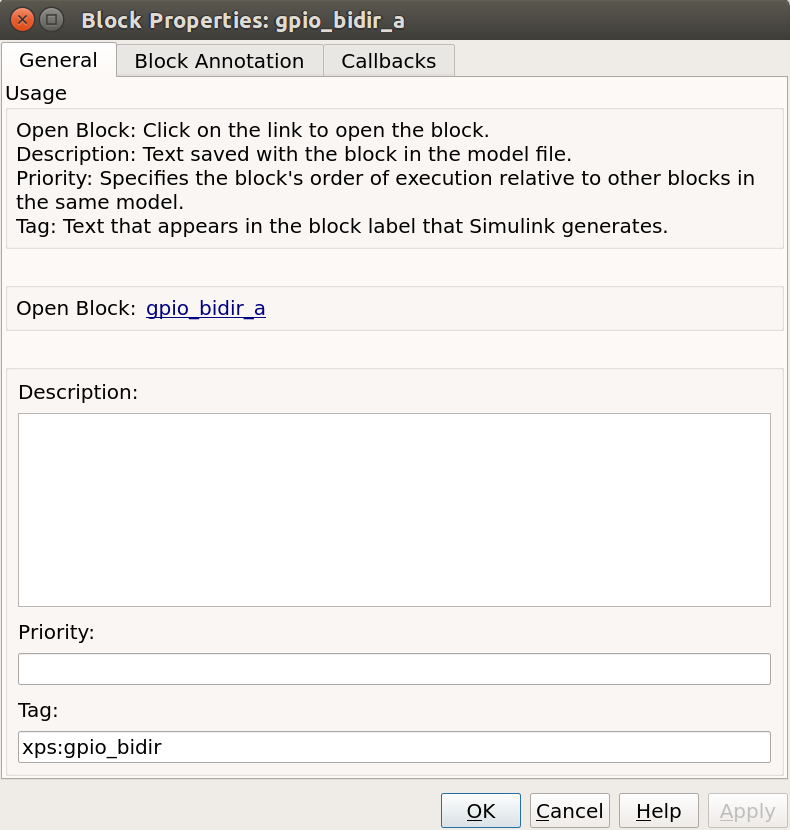
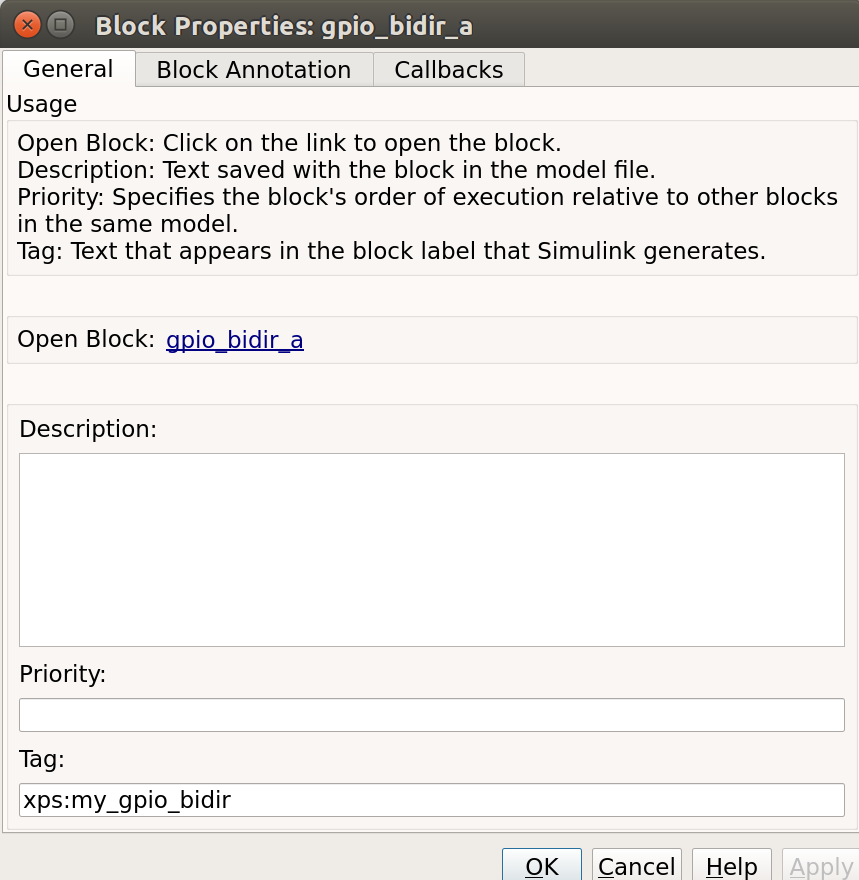
Updated yellow block tutorial based on user feedback. Fixed build failure because of sphinx-markdown-tables version issue. Added casperfpga ccommands to code blocks for each introduction tutorial.

diff --git a/docs/tutorials/snap/tut_gpio_bidir.md b/docs/tutorials/snap/tut_gpio_bidir.md
@@ -6,6 +6,8 @@ In this tutorial, you will create a yellow block for a bidirectional GPIO n-bit 
 ## Making a Bidirectional GPIO - HDL
 So we want to design a bidirectional GPIO interface. That means we need to create a bidirectional GPIO module, and convince the toolflow to instantiate it.
 
+(In most cases when we are porting something into the Toolflow, all verilog/vhdl code is completed, tested, and working in the form of a Xilinx Vivado project)
+
 The simplest version of a bidirectional GPIO module that can be created is simply a wrapper around a Xilinx IOBUF instance. An IOBUF (see the 7 series user guide [page 39](https://www.xilinx.com/support/documentation/user_guides/ug471_7Series_SelectIO.pdf)) is a Xilinx module used to connect signals to a bi-directional external pin. It has the following ports, which are described (using slightly loose terminology) below:
 
 I: the input (i.e., from the FPGA to the GPIO pin)
@@ -16,11 +18,11 @@ IO: the GPIO pin (defined by the user in the Simulink mask later)
 
 T: The control signal, which configures the interface as an input (i.e. IO ---> O) when T=1, and an output (i.e. I ---> IO) when T=0.
 
-We construct a module "gpio_bidir" which wraps 'n' number such IOBUF instances (i.e., an n-bit wide buffer) and also registers the output signal. This simple module will form the entirety of the interface we will turn into a yellow block. Create a new folder in /mlib_devel/jasper_library/hdl_sources/ named 'gpio_bidir' and save your module description as gpio_bidir.v there.
+We construct a module "my_gpio_bidir" which wraps 'n' number such IOBUF instances (i.e., an n-bit wide buffer) and also registers the output signal. This simple module will form the entirety of the interface we will turn into a yellow block. Create a new folder in /mlib_devel/jasper_library/hdl_sources/ named 'my_gpio_bidir' and save your module description as my_gpio_bidir.v there.
 
-NB: n-bit refers to the parameter 'WIDTH' below.
+NB: n-bit refers to the parameter `WIDTH` below.
 ```Verilog
-module gpio_bidir #(parameter WIDTH=1) (
+module my_gpio_bidir #(parameter WIDTH=1) (
     input            clk,
     inout      [WIDTH-1:0] dio_buf, //inout, NOT input(!)
     input      [WIDTH-1:0] din_i,
@@ -46,17 +48,21 @@ module gpio_bidir #(parameter WIDTH=1) (
 endmodule
 ```
 ## Making a Bidirectional GPIO -  Simulink
-Start by launching MATLAB via the './startsg \<your startsg.local file>\'. Create a new Simulink model titled 'tut_gpio_bidir.slx' and save it.
+Start by launching MATLAB via the `./startsg \<your startsg.local file>\`. Create a new Simulink model titled 'tut_gpio_bidir.slx' and save it.
 
 NB: Now is another good time to remind you to save your Simulink model early and save it often! As it is prone to crash at complete random times.
 
 Grab a new yellow block from the XPS library conveniently name 'new_yellow_block'. Rename it 'gpio_bidir_a' as this will serve as our A bank GPIO bidir.
+
+NB: This can be done via the Simulink Library Browser... Or by single clicking anywhere in your model and simply start typing 'new_yellow_block' then pressing enter on the highlighted block shown.
 
 Next, right-click on the yellow block. Navigate to 'Library Link' -> click on 'Disable Link'. Once more, right-click on the yellow block, navigate to 'Library Lock' again, and click 'Break Link'.
 
 Our module has five inputs/outputs. The only ports which need to appear in the yellow block are those that form connections between your module, and the Simulink model. In our case, these are I, O, and T. The clock signal does not come from the Simulink design, but rather some other module. Similarly, the IO signal does not connect to the Simulink model, but rather refers to an external GPIO pin.
 
 Therefore, our yellow block should have 3 ports. An n-bit input (to be connected to I) named 'din', an n-bit output (to be connected to O) named 'dout' and a 1-bit input (to be connected to T) named 'in_not_out'. Be careful -- an input to the yellow block requires a "Gateway out" of simulink, since the signal needs to go out from the Simulink module, in to the new GPIO module. Similarly, an output from the yellow block requires a gateway in, since the signal will go out of the GPIO module and in to the Simulink design.
+
+![alt text](../../_static/img/snap/tut_gpio_bidir/gpio_bidir_block.png)
 
 The names of the ports should match the names used in your module, and gateways out should be preceded by reinterpret and cast blocks to force the correct data types. 
 
@@ -79,17 +85,13 @@ Gateway In block params:
 - We will take care of the number of bits through the mask, but set binary point to 0
 - Truncate and Wrap
 
-![alt text](../../_static/img/snap/tut_gpio_bidir/gpio_bidir_block.png)
-<INSERT PICTURE OF GPIO_BIDIR_BLOCK HERE>
-
-Next, you need to tell the toolflow that this is a yellow block, by tagging it as an xps block. Open the block properties(right-click, then select properties), and tag the block by entering xps:\<module_name> in the 'tag' field. In our case the block is tagged 'xps:gpio_bidir'.
+Next, you need to tell the toolflow that this is a yellow block, by tagging it as an xps block. Open the block properties(right-click, then select properties), and tag the block by entering xps:\<module_name> in the 'tag' field. In our case the block is tagged 'xps:my_gpio_bidir'.
 
 ![alt text](../../_static/img/snap/tut_gpio_bidir/gpio_bidir_properties.png)
-<INSERT PICTURE OF GPIO_BIDIR_PROPERTIES HERE>
 
-We are now almost finished with Simulink, except for one last modification to the block. As we have seen, the inputs/outputs of the "Simulink" module take the names of the gateway blocks that define them. In order that these names always be unique, the toolflow mandates that they follow a hierarchical naming scheme. This is defined by: <model_name>_<parent_block_name>_<user_specified_port_name>. Since simulink ensures that no two blocks have the same name, this naming scheme always results in a unique port name, no matter how many times you instantiate your yellow block. Each yellow block has an initialization script which (amongst other possible functions) must rename gateways in a block according to this convention.
+We are now almost finished with Simulink, except for one last modification to the block. As we have seen, the inputs/outputs of the "Simulink" module take the names of the gateway blocks that define them. In order that these names always be unique, the toolflow mandates that they follow a hierarchical naming scheme. This is defined by: <model_name>_<parent_block_name>_<user_specified_port_name>. Since Simulink ensures that no two blocks have the same name, this naming scheme always results in a unique port name, no matter how many times you instantiate your yellow block. Each yellow block has an initialization script which (amongst other possible functions) must rename gateways in a block according to this convention.
 
-The gpio_bidir block's initialization script is gpio_bidir_mask.m, in the xps_library sub-directory of mlib_devel. It does nothing except find all the gateways in the block (by looking for blocks whose name ends in "<user_specified_port_name>") and renaming them appropriately. As in all things yellow blocky, If in doubt, copy from another block which works. :)
+The 'my_gpio_bidir' block's initialization script is 'my_gpio_bidir_mask.m', in the xps_library sub-directory of mlib_devel. It does nothing except find all the gateways in the block (by looking for blocks whose name ends in "<user_specified_port_name>") and renaming them appropriately. As in all things yellow blocky, If in doubt, copy from another block which works and tweak to your needs. :)
 
 ``` MATLAB
 % find all the gateway in/out blocks
@@ -139,16 +141,15 @@ for i =1:length(gateway_ins)
     end
 end
 ```
-We call the 'gpio_bidir_mask' script by specifiying it in the block's initilization commands in the block mask. I.e., right click the block, create a mask, and add to the initialization section gpio_bidir_mask;. This is exactly the same as the procedure used to call drawing functions for any other (non-yellow) library blocks.
+We call the 'my_gpio_bidir_mask' script by specifiying it in the block's initilization commands in the block mask. I.e., right click the block, create a mask, and add to the initialization section `my_gpio_bidir_mask;`. This is exactly the same as the procedure used to call drawing functions for any other (non-yellow) library blocks.
 
 Next, we need to add some parameters. Click on the 'Parameters & Dialog' tab, and click-and-drag a popup box over from the left hand side under the 'Parameters' folder. Repeat by adding two edit boxes to the parameters folder.
 
 The configurations are as follows:
-<INSERT PICTURE OF ALL PARAMS HERE... HOPEFULLY SIDE BY SIDE>
 
-![alt text](../../_static/img/snap/tut_gpio_bidir/gpio_bidir_iogroup_params.png) ![alt text](../../_static/img/snap/tut_gpio_bidir/gpio_bidir_bitwidth_params.png) ![alt text](../../_static/img/snap/tut_gpio_bidir/gpio_bidir_bitindex_params.png)
+![alt text](../../_static/img/snap/tut_gpio_bidir/gpio_bidir_iogroup_params.png) 
 
-Set the popup options for 'iogroup' to (should match the options in the same popup for the GPIO block):
+Set the 'Type options' parameter for 'iogroup' by clicking on the pencil next to 'Popup options' to (should match the options in the same popup for the GPIO block):
 ```
 led
 gpio
@@ -157,10 +158,25 @@ sync_out
 zdok0
 zdok1
 ```
-Now, we finish off the design by refering to the picture below. You should copy and paste the gpio_bidir_a block and rename it as 'gpio_bidir_b', this second block will be used for B bank GPIO's. Be sure to set the I/O group and Data bitwidth for both gpio_bidir blocks to 'gpio' and 4. Set the GPIO bit index for gpio_bidir_a to the Matlab vector '[0, 1, 2, 3]' and for gpio_bidir_b to the Matlab vector '[4, 5, 6, 7]'. The length of these vectors must match the value entered for Data bitwidth.
 
-Below is a top-level view of the whole-finished Simulink Model:
-<INSERT TOP LEVEL SIMULINK MODEL PIC>
+![alt text](../../_static/img/snap/tut_gpio_bidir/gpio_bidir_bitwidth_params.png) ![alt text](../../_static/img/snap/tut_gpio_bidir/gpio_bidir_bitindex_params.png)
+
+Next, we continue by referring to the picture below. You should copy and paste the 'gpio_bidir_a' block and rename it as 'gpio_bidir_b', this second block will be used for B bank GPIO's. Be sure to set the I/O group and Data bitwidth for both my_gpio_bidir blocks to 'gpio' and 4. Set the GPIO bit index for gpio_bidir_a to the Matlab vector '[0, 1, 2, 3]' and for gpio_bidir_b to the Matlab vector '[4, 5, 6, 7]'. The length of these vectors must match the value entered for Data bitwidth.
+
+Following, drop in 4 software register blocks, named 'to_gpio_a', 'a_is_input', 'to_gpio_b', and 'b_is_input'. All with the same parameters shown below:
+
+![alt text](../../_static/img/snap/tut_gpio_bidir/sw_reg_from_params.png)
+
+Additionally, drop in 2 more software register blocks named '' and ''. Both with the following parameters:
+
+![alt text](../../_static/img/snap/tut_gpio_bidir/sw_reg_to_params.png)
+
+Finally, insert 2 gpio blocks that will be configured as leds. The first with a 'GPIO bit index' of '0' and the second as '1':
+
+![alt text](../../_static/img/snap/tut_gpio_bidir/led_params.png)
+
+Below is a top-level view of the whole-finished Simulink Model (if you are having any difficulties a completed Simulink model can be found [here](https://github.com/casper-astro/tutorials_devel/blob/master/vivado/snap/tut_gpio_bidir/tut_gpio_bidir.slx)):
+
 ![alt text](../../_static/img/snap/tut_gpio_bidir/gpio_bidir_top_level_simulink.png)
 
 
@@ -176,42 +192,47 @@ Now we have the module (HDL you wrote first) and Simulink model finished. It is 
 
 The toolflow is as follows, starting with the jasper command in the matlab terminal (all scripts can be found in the mlib_devel directory or yellow_block sub-dir):
 
-jasper.m -> jasper_frontend.m -> exec_flow.py -> toolflow.py -> yellow_block.py -> gpio_bidir.py
+jasper.m -> jasper_frontend.m -> exec_flow.py -> toolflow.py -> yellow_block.py -> my_gpio_bidir.py
 
-The last script will be the name of your module as in this case gpio_bidir.py. Create this script in the yellow block sub-directory of mlib_devel. I recommend carefully reading yellow_block.py as the function header comments are well written and explain what you need to do. :)
+The last script will be the name of your module as in this case `my_gpio_bidir.py`. Create this script in the yellow block sub-directory of mlib_devel. I recommend carefully reading yellow_block.py as the function header comments are well written and explain what you need to do. :)
 
-NB: I figured out how to create this script by comparing gpio_bidir to the gpio yellow block. First I found the hdl_source file for it. Next I compared the top.v from a different project that contained the gpio block (as top.v contains the instantiation for the gpio module) Then, I compared the script that generated that instantiation (gpio.py) to the top.v and hdl source. 
+NB: I figured out how to create this script by comparing my_gpio_bidir to the gpio yellow block. First I found the hdl_source file for it. Next I compared the top.v from a different project that contained the gpio block (as top.v contains the instantiation for the gpio module) Then, I compared the script that generated that instantiation (gpio.py) to the top.v and hdl source. 
 
 Start by first just tweaking the modify_top function to suit your needs, run 'jasper' command and fix python errors until the errors point to the gen_constaints function. Next, repeat the process for the gen_constraints function. Debug and repeat until you compile w/out errors, look in top.v file in the build directory and you should see your yellow block instantiation. Carefully add the rest of your functionality from here until your top.v instantiation matches your HDL code (module).
 
 (Move on to the next section, once the 'jasper' command finishes and your yellow block instantiation matches the module)
 
-The code for the gpio_bidir yellow block is below:
+The code for the my_gpio_bidir yellow block is below (pay particular attention to the comments):
 ```Python
 from yellow_block import YellowBlock
 from constraints import PortConstraint
 from helpers import to_int_list
 
-class gpio_bidir(YellowBlock):
+class my_gpio_bidir(YellowBlock):
     def initialize(self):
-        # Set bitwidth of block
+        # Set bitwidth of block (this is determined by the 'Data bitwidth' parameter in the Simulink mask)
         self.bitwidth = int(self.bitwidth)
-        # add the source files, which have the same name as the module
-        self.module = 'gpio_bidir'
+        # add the source files, which have the same name as the module (this is the verilog module created above)
+        self.module = 'my_gpio_bidir'
         self.add_source(self.module)
 
     def modify_top(self,top):
+        # port name to be used for 'dio_buf'
         external_port_name = self.fullname + '_ext'
-
+        # get this instance from 'top.v' or create if not instantiated yet
         inst = top.get_instance(entity=self.module, name=self.fullname, comment=self.fullname)
+        # add ports necessary for instantiation of module
         inst.add_port('clk', signal='user_clk', parent_sig=False)
+        # parent_port=True, and dir='input', so add an input to 'top.v'
         inst.add_port('dio_buf', signal=external_port_name, dir='inout', width=self.bitwidth, parent_port=True)
         inst.add_port('din_i', signal='%s_din_i'%self.fullname, width=self.bitwidth)
         inst.add_port('dout_o', signal='%s_dout_o'%self.fullname, width=self.bitwidth)
         inst.add_port('in_not_out_i', signal='%s_in_not_out_i'%self.fullname)
+        # add width parameter from 'Data bitwidth' parameter in Simulink mask
         inst.add_parameter('WIDTH', str(self.bitwidth))
 
     def gen_constraints(self):
+        # add port constraint to user_const.xdc for 'inout' ()
         return [PortConstraint(self.fullname+'_ext', self.io_group, port_index=range(self.bitwidth), iogroup_index=to_int_list(self.bit_index))]
 ```
 ## Testing
@@ -495,10 +516,10 @@ If not, start by ensuring your original HDL code was correct to begin with, then
 2. Add your yellow block to the model. (This should be the only block in the model)
 3. Add your yellow block mask script to 'xps_library' folder if needed.
 4. Save your Simulink model in the 'xps_models' folder (please put it in the directory that makes sense, otherwise create a new directory)
-5. Launch Matlab via the './startsg' script in mlib_devel directory.
+5. Launch Matlab via the `./startsg` script in mlib_devel directory.
 6. Double-click on 'xps_library' directory from the 'Current Folder' pane on the left-hand side of the Matlab window.
-7. Run 'xps_build_new_library('xps_models', 'xps_library')', click 'Yes' on overwrite dialog prompt and ignore any warnings
-8. For any models you wish to link with this new library, open the model and run 'update_casper_blocks(`<your model name here>`)' in the Matlab command window. (Preferably all your models)
+7. Run `xps_build_new_library`, click 'Yes' on overwrite dialog prompt and ignore any warnings.
+8. For any models you wish to link with this new library, open the model and run `update_casper_blocks(bdroot)` in the Matlab command window. (Preferably all your models)
 
 **Now help out CASPER by adding more yellow blocks to our library :)**
 

diff --git a/docs/tutorials/snap/tut_intro.md b/docs/tutorials/snap/tut_intro.md
@@ -252,33 +252,39 @@ As per the previous figure, navigate to the outputs folder and (secure)copy this
 SSH into the server that the SNAP board is connected to and navigate to the folder in which your .fpg file is stored.
 
 Start interactive python by running:
- ipython
-
+```bash
+ipython
+```
 Now import the fpga control library. This will automatically pull-in the KATCP library and any other required communications libraries.
- import casperfpga
-
+```python
+import casperfpga
+```
 To connect to the board we create a CasperFpga instance; let's call it fpga. The CasperFpga constructor requires just one argument: the IP hostname or address of your FPGA board.
-
- fpga # casperfpga.CasperFpga('snap hostname or ip_address')
-
+```python
+fpga = casperfpga.CasperFpga('<snap hostname or ip_address>')
+```
 The first thing we do is program the FPGA with the .fpg file which your compile generated.
 
- fpga.upload_to_ram_and_program('your_fpgfile.fpg')
-
+```python
+fpga.upload_to_ram_and_program('<your_fpgfile.fpg>')
+```
 Should the execution of this command return true, you can safely assume the FPGA is now configured with your design. You should see the LED on your board flashing. Go check! All the available/configured registers can be displayed using:
- fpga.listdev()
+```python
+fpga.listdev()
+```
 The adder and counter can be controlled by [writing to](https://github.com/ska-sa/casperfpga/wiki/API-Documentation#write_int) and [reading from](https://github.com/ska-sa/casperfpga/wiki/API-Documentation#read_int) registers added in the design using:
- fpga.write_int('a',10)
- fpga.write_int('b',20)
- fpga.read_int('sum_a_b')
-
+```python
+fpga.write_int('a',10)
+fpga.write_int('b',20)
+fpga.read_int('sum_a_b')
+```
 With any luck, the sum returned by the FPGA should be correct.
 
 You can also try writing to the counter control registers in your design. You should find that with appropriate manipulation of the control register, you can make the counter start, stop, and return to zero.
-
- fpga.write_int('counter_ctrl',10')
- fpga.read_uint('counter_value')
-
+```python
+fpga.write_int('counter_ctrl',10')
+fpga.read_uint('counter_value')
+```
 ## Conclusion
 This concludes the first CASPER Tutorial. You have learned how to construct a simple Simulink design, program an FPGA board and interact with it with Python using [casperfpga](https://github.com/casper-astro/casperfpga). Congratulations!
 

diff --git a/docs/tutorials/roach/tut_intro.md b/docs/tutorials/roach/tut_intro.md
@@ -248,27 +248,31 @@ Now import the fpga control library. This will automatically pull-in the KATCP l
  import casperfpga
 
 To connect to the board we create a CasperFpga instance; let's call it fpga. The CasperFpga constructor requires just one argument: the IP hostname or address of your FPGA board.
-
- fpga # casperfpga.CasperFpga('roach2 hostname or ip_address')
-
+```python
+fpga = casperfpga.CasperFpga('<roach2 hostname or ip_address>')
+```
 The first thing we do is program the FPGA with the .fpg file which your compile generated.
-
- fpga.upload_to_ram_and_program('your_fpgfile.fpg')
-
+```python
+fpga.upload_to_ram_and_program('<your_fpgfile.fpg>')
+```
 Should the execution of this command return true, you can safely assume the FPGA is now configured with your design. You should see the LED on your board flashing. Go check! All the available/configured registers can be displayed using:
- fpga.listdev()
+```python
+fpga.listdev()
+ ```
 The adder and counter can be controlled by [writing to](https://github.com/ska-sa/casperfpga/wiki/API-Documentation#write_int) and [reading from](https://github.com/ska-sa/casperfpga/wiki/API-Documentation#read_int) registers added in the design using:
- fpga.write_int('a',10)
- fpga.write_int('b',20)
- fpga.read_int('sum_a_b')
 
+```python 
+fpga.write_int('a',10)
+fpga.write_int('b',20)
+fpga.read_int('sum_a_b')
+```
 With any luck, the sum returned by the FPGA should be correct.
 
 You can also try writing to the counter control registers in your design. You should find that with appropriate manipulation of the control register, you can make the counter start, stop, and return to zero.
-
- fpga.write_int('counter_ctrl',10')
- fpga.read_uint('counter_value')
-
+```python
+fpga.write_int('counter_ctrl',10')
+fpga.read_uint('counter_value')
+```
 ## Conclusion
 This concludes the first CASPER Tutorial. You have learned how to construct a simple Simulink design, program an FPGA board and interact with it with Python using [casperfpga](https://github.com/casper-astro/casperfpga). Congratulations!
 

diff --git a/docs/tutorials/skarab/tut_intro.md b/docs/tutorials/skarab/tut_intro.md
@@ -258,26 +258,30 @@ Now import the fpga control library. This will automatically pull-in the KATCP l
  import casperfpga
 
 To connect to the board we create a CasperFpga instance; let's call it fpga. The CasperFpga constructor requires just one argument: the IP hostname or address of your FPGA board.
-
- fpga # casperfpga.CasperFpga('skarab hostname or ip_address')
-
+```python
+fpga = casperfpga.CasperFpga('<skarab hostname or ip_address>')
+```
 The first thing we do is program the FPGA with the .fpg file which your compile generated.
-
- fpga.upload_to_ram_and_program('your_fpgfile.fpg')
-
+```python
+fpga.upload_to_ram_and_program('<your_fpgfile.fpg>')
+```
 Should the execution of this command return true, you can safely assume the FPGA is now configured with your design. You should see the LED on your board flashing. Go check! All the available/configured registers can be displayed using:
- fpga.listdev()
+```python
+fpga.listdev()
+```
 The adder and counter can be controlled by [writing to](https://github.com/ska-sa/casperfpga/wiki/API-Documentation#write_int) and [reading from](https://github.com/ska-sa/casperfpga/wiki/API-Documentation#read_int) registers added in the design using:
- fpga.write_int('a',10)
- fpga.write_int('b',20)
- fpga.read_int('sum_a_b')
-
+```python
+fpga.write_int('a',10)
+fpga.write_int('b',20)
+fpga.read_int('sum_a_b')
+```
 With any luck, the sum returned by the FPGA should be correct.
 
 You can also try writing to the counter control registers in your design. You should find that with appropriate manipulation of the control register, you can make the counter start, stop, and return to zero.
-
- fpga.write_int('counter_ctrl',10')
- fpga.read_uint('counter_value')
+```python
+fpga.write_int('counter_ctrl',10')
+fpga.read_uint('counter_value')
+```
 
 ## Conclusion
 This concludes the first CASPER Tutorial. You have learned how to construct a simple Simulink design, program an FPGA board and interact with it with Python using [casperfpga](https://github.com/casper-astro/casperfpga). Congratulations!
